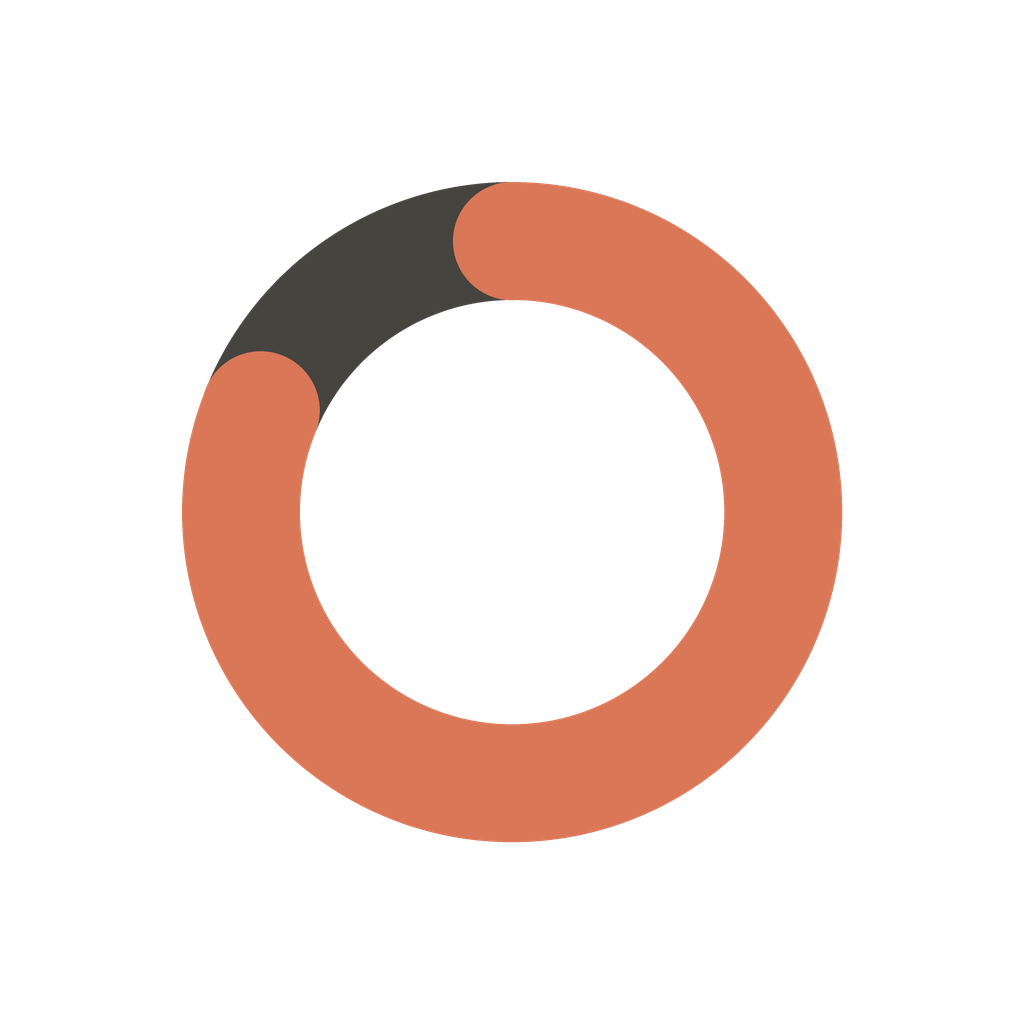
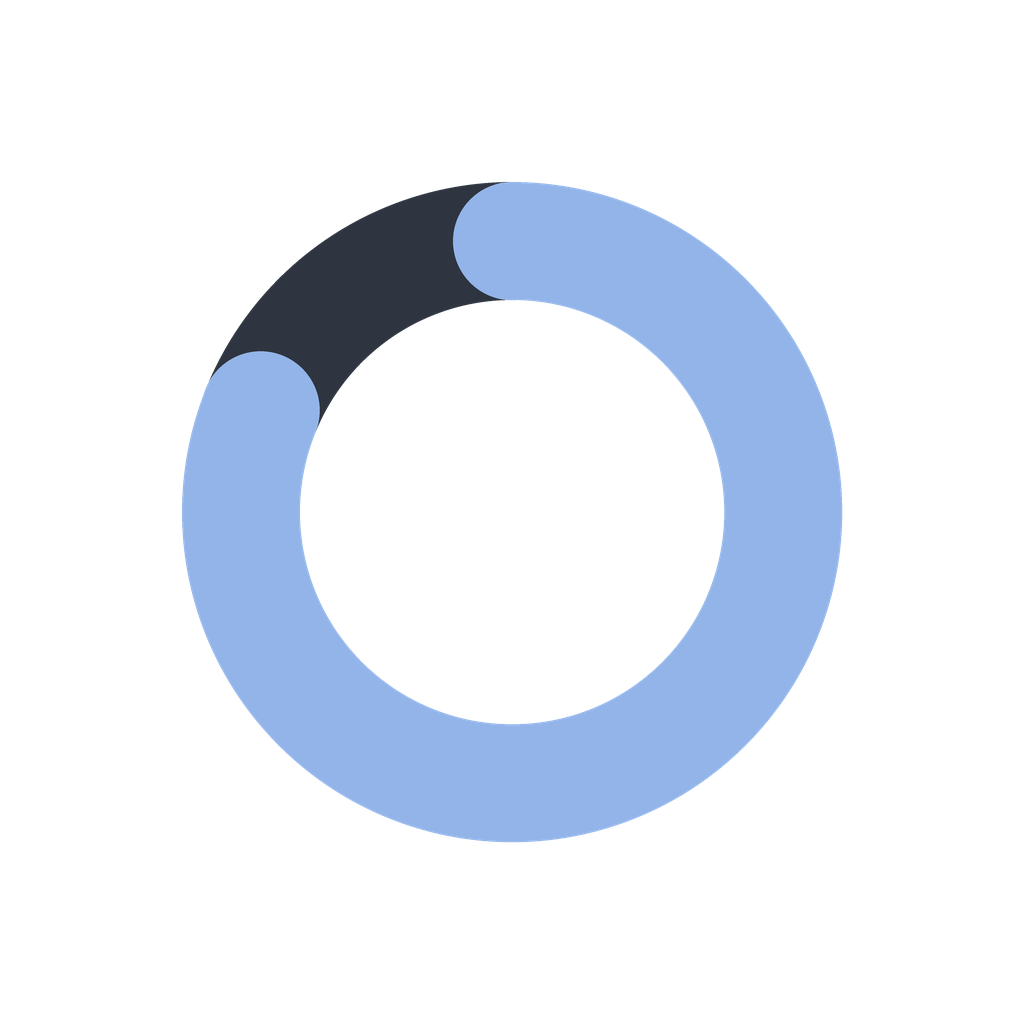
Build snapshot

Changed region(s): [[0.1562, 0.1562, 0.8438, 0.8438]]

diff --git a/src/ui/theme.ts b/src/ui/theme.ts
@@ -1,54 +1,60 @@
 import { DynamicColorIOS, Platform, useColorScheme, type ColorValue, type TextStyle } from 'react-native';
 
 /**
- * Claude's own palette: warm ivory paper and near-black ink by day, warm charcoal by night, and one
- * terracotta accent. The feelings scale keeps its own colours (src/domain/feelings.ts).
+ * Ink on paper. A journal is written with a pen: day paper and pen ink, one deep pen-blue for
+ * everything that can be acted on, a leaf green for a yes and a muted brick for a no. Blue is calm
+ * on purpose (the evening ritual, decades of use); warm colours are left to the day itself, whose
+ * feeling colour tints Today (src/domain/feelings.ts). Every text pairing is at least 4.5:1.
  */
 const light = {
-  bg: '#FAF9F5', // ivory paper
+  bg: '#F7F7F4', // day paper
   surface: '#FFFFFF',
-  fill: '#F0EEE6', // inputs, pills, segmented track
-  ink: '#141413',
-  ink2: '#5E5D59', // secondary text
-  ink3: '#75736B', // placeholders and quiet hints; 4.5:1 on paper
-  hairline: '#E8E6DC',
-  track: '#E8E6DC', // empty ring track, missed strip cells
-  boxBorder: '#C3C0B6', // unticked checkbox
-  accent: '#C96442', // terracotta: fills, rings, icons
-  // Terracotta has two jobs. The bright one fills; text in terracotta and white text on a terracotta
-  // button need a deeper shade to be read easily (4.5:1 or more, WCAG AA).
-  accentText: '#A64F34', // terracotta words: links, actions, the streak
-  accentStrong: '#AD5236', // fill behind white words: primary buttons
-  accentSoft: '#F5E9E2',
+  fill: '#ECEDEA', // inputs, pills, segmented track
+  ink: '#15181C',
+  ink2: '#55595F', // secondary text
+  ink3: '#6E7278', // placeholders and quiet hints
+  hairline: '#E2E3DF',
+  track: '#E2E3DF', // empty ring track, missed strip cells
+  boxBorder: '#B6B9BE', // unticked checkbox
+  accent: '#2B4C7E', // pen blue: actions, selection, rings
+  accentText: '#2B4C7E', // blue words (8:1 on paper)
+  accentStrong: '#2B4C7E', // fill behind white words
+  accentSoft: '#E6ECF5', // pen-blue wash: done, chosen
   onAccent: '#FFFFFF',
-  good: '#387D47', // a yes on a challenge list
-  goodStrong: '#387D47', // fill behind white words
-  goodSoft: '#E5F0E3',
-  scrim: 'rgba(20,20,19,0.05)',
-  edge: 'rgba(20,20,19,0.08)', // the thin edge around colour swatches
+  good: '#2F7A4A', // a yes
+  goodStrong: '#2F7A4A',
+  goodSoft: '#E3F0E7',
+  bad: '#A8432F', // a no, a rejection: muted brick, never alarm red
+  badStrong: '#A8432F',
+  flame: '#B3591F', // the streak's flame
+  scrim: 'rgba(21,24,28,0.05)',
+  edge: 'rgba(21,24,28,0.08)', // the thin edge around colour swatches
 };
 
-/** Night: warm charcoal, slightly raised cards, the brighter terracotta Claude uses in dark mode. */
+/** Night: blue-black paper, lighter ink, the pen-blue lifted so it reads on dark. */
 const dark: typeof light = {
-  bg: '#262624',
-  surface: '#30302E',
-  fill: '#3A3936',
-  ink: '#FAF9F5',
-  ink2: '#C2C0B6',
-  ink3: '#9C9A93',
-  hairline: '#3E3D3A',
-  track: '#45443F',
-  boxBorder: '#6B6A64',
-  accent: '#D97757',
-  accentText: '#E38B6E',
-  accentStrong: '#A9553A',
-  accentSoft: '#45322A',
-  onAccent: '#FFFFFF',
-  good: '#6DBE7C',
-  goodStrong: '#2F7A3F',
-  goodSoft: '#2F3D30',
-  scrim: 'rgba(250,249,245,0.07)',
-  edge: 'rgba(250,249,245,0.12)',
+  bg: '#12161C',
+  surface: '#1A2028',
+  fill: '#232A33',
+  ink: '#ECEEF1',
+  ink2: '#AEB4BC',
+  ink3: '#8C939C',
+  hairline: '#2A313A',
+  track: '#2E3540',
+  boxBorder: '#4C545E',
+  accent: '#93B4E8',
+  accentText: '#93B4E8',
+  accentStrong: '#93B4E8',
+  accentSoft: '#1E2A3B',
+  onAccent: '#0E1726', // dark words on the light night blue
+  good: '#7CC495',
+  goodStrong: '#7CC495',
+  goodSoft: '#1D3126',
+  bad: '#E8907F',
+  badStrong: '#E8907F',
+  flame: '#E9A15F',
+  scrim: 'rgba(236,238,241,0.07)',
+  edge: 'rgba(236,238,241,0.12)',
 };
 
 export type ColorName = keyof typeof light;

diff --git a/src/app/(tabs)/(index,month,lookback,plan)/index.tsx b/src/app/(tabs)/(index,month,lookback,plan)/index.tsx
@@ -1,10 +1,12 @@
 import { router } from 'expo-router';
-import { ActionSheetIOS, StyleSheet, View } from 'react-native';
+import { useEffect, useState } from 'react';
+import { ActionSheetIOS, AppState, StyleSheet, View } from 'react-native';
 import Animated from 'react-native-reanimated';
 
 import { formatTitle, monthOf } from '@/domain/dates';
 import { JournalGroup, NoSetupNote, TodayGroup, WeekGroup } from '@/features/day/day-layout';
-import { useMonth, usePrompts, useStreaks, useToday } from '@/features/hooks';
+import { DayWash } from '@/features/day/day-wash';
+import { useDay, useMonth, usePrompts, useStreaks, useToday } from '@/features/hooks';
 import { PromptCard } from '@/features/prompts/prompt-card';
 import { useJournal } from '@/state/journal';
 import { haptic } from '@/ui/haptics';
@@ -21,8 +23,8 @@ function Streak({ days }: { days: number }) {
   if (days < 2) return null;
   return (
     <Animated.View style={[styles.streak, bump]} accessible accessibilityLabel={`${days}-day streak`}>
-      <Icon name="flame.fill" size={14} color={colors.accent} />
-      <T variant="subhead" weight="700" tone="accent" style={styles.tabular} chrome>
+      <Icon name="flame.fill" size={14} color={colors.flame} />
+      <T variant="subhead" weight="700" style={[styles.tabular, styles.streakText]} chrome>
         {String(days)}
       </T>
     </Animated.View>
@@ -77,15 +79,40 @@ function DayMenu() {
  * Today: the date is the title. Below it: what is due (a prompt card, only when something is), the
  * journal entry, today's goals and hobbies, then the week.
  */
+/** From 5 pm until the new day starts (04:00 by default), the day is closing. */
+function isEvening(hour: number): boolean {
+  return hour >= 17 || hour < 4;
+}
+
+/** The current hour, checked again every few minutes and whenever the app comes back. */
+function useHour(): number {
+  const [hour, setHour] = useState(() => new Date().getHours());
+  useEffect(() => {
+    const tick = () => setHour(new Date().getHours());
+    const t = setInterval(tick, 5 * 60 * 1000);
+    const sub = AppState.addEventListener('change', (st) => st === 'active' && tick());
+    return () => {
+      clearInterval(t);
+      sub.remove();
+    };
+  }, []);
+  return hour;
+}
+
 export default function TodayScreen() {
   const today = useToday();
   const prompts = usePrompts();
   const { current } = useStreaks();
   const month = useMonth(monthOf(today));
   const setupSkipped = !month.setup && !prompts.some((p) => p.kind === 'setup');
+  const day = useDay(today);
+  const written = !!(day.title || day.writing || day.media.length || day.feeling != null);
+  const hour = useHour();
+  const evening = written || isEvening(hour);
 
   return (
     <Screen topInset>
+      <DayWash date={today} />
       <TopBar
         title={formatTitle(today)}
         trailing={
@@ -97,10 +124,15 @@ export default function TodayScreen() {
       />
       <PromptCard prompts={prompts} />
       {setupSkipped ? <NoSetupNote date={today} /> : null}
+      {/*
+        What comes first follows the day: in daytime the quick ticks lead and the day's entry waits
+        at the end; from late afternoon, or once the day is written, its entry leads.
+      */}
       <View style={styles.groups}>
-        <JournalGroup date={today} isToday titled={false} />
+        {evening ? <JournalGroup date={today} isToday titled={false} /> : null}
         <TodayGroup date={today} />
         <WeekGroup date={today} />
+        {evening ? null : <JournalGroup date={today} isToday titled={false} />}
       </View>
     </Screen>
   );
@@ -118,5 +150,6 @@ const styles = StyleSheet.create({
     justifyContent: 'center',
   },
   streak: { flexDirection: 'row', alignItems: 'center', gap: 4 },
+  streakText: { color: colors.flame },
   tabular: { fontVariant: ['tabular-nums'] },
 });

diff --git a/src/features/past/challenges.tsx b/src/features/past/challenges.tsx
@@ -107,13 +107,13 @@ function Totals({ kind, list }: { kind: ChallengeKind; list: ChallengeItem[] }) 
           <View style={styles.rule} />
           <Stat value={active} label="Active" color={colors.ink} />
           <View style={styles.rule} />
-          <Stat value={failed} label={copy.failed} color={colors.accent} />
+          <Stat value={failed} label={copy.failed} color={colors.bad} />
           <View style={styles.rule} />
           <Stat value={succeeded} label={copy.succeeded} color={colors.good} />
         </View>
         {total ? (
           <View style={styles.bar} accessibilityElementsHidden importantForAccessibility="no-hide-descendants">
-            {failed ? <View style={{ flex: failed, backgroundColor: colors.accent }} /> : null}
+            {failed ? <View style={{ flex: failed, backgroundColor: colors.bad }} /> : null}
             {succeeded ? <View style={{ flex: succeeded, backgroundColor: colors.good }} /> : null}
             {active ? <View style={{ flex: active, backgroundColor: colors.boxBorder }} /> : null}
             {rest ? <View style={{ flex: rest }} /> : null}
@@ -141,7 +141,7 @@ function StatusBox({ item, kind, onPress }: { item: ChallengeItem; kind: Challen
   const p = usePalette();
   const box =
     item.outcome === 'failed'
-      ? { borderColor: p.accent, backgroundColor: p.accent }
+      ? { borderColor: p.bad, backgroundColor: p.bad }
       : item.outcome === 'succeeded'
         ? { borderColor: p.good, backgroundColor: p.good }
         : item.started
@@ -262,7 +262,7 @@ export function ChallengeRow({
       left={{
         label: item.outcome === 'failed' ? 'Undo' : copy.failed,
         icon: item.outcome === 'failed' ? 'arrow.uturn.backward' : 'xmark',
-        color: colors.accentStrong,
+        color: colors.badStrong,
       }}
       onSwipe={(d) => conclude(d === 'right' ? 'succeeded' : 'failed')}
       onSwipeStart={() => (swiped.current = Date.now())}

diff --git a/src/features/day/day-wash.tsx b/src/features/day/day-wash.tsx
@@ -1,0 +1,37 @@
+import { LinearGradient } from 'expo-linear-gradient';
+import { StyleSheet, useColorScheme } from 'react-native';
+import Animated from 'react-native-reanimated';
+
+import { feeling } from '@/domain/feelings';
+import type { ISODate } from '@/domain/types';
+import { useDay } from '@/features/hooks';
+import { enterSoft, exitSoft } from '@/ui/motion';
+import { GUTTER } from '@/ui/theme';
+
+/** How strongly the day's colour shows at the very top: a tint, never a fill. */
+const STRENGTH = { light: '33', dark: '47' } as const;
+
+/**
+ * The day's own colour. Once the feeling is set, the top of Today takes it on: a soft wash from
+ * that colour into the paper, behind the date. The app reflects the day back; until then the page
+ * is plain paper. It scrolls with the page and sits behind everything.
+ */
+export function DayWash({ date }: { date: ISODate }) {
+  const f = feeling(useDay(date).feeling);
+  const scheme = useColorScheme() === 'dark' ? 'dark' : 'light';
+  if (!f) return null;
+  return (
+    <Animated.View key={f.score} entering={enterSoft} exiting={exitSoft} pointerEvents="none" style={styles.wash}>
+      <LinearGradient
+        colors={[`${f.color}${STRENGTH[scheme]}`, `${f.color}00`]}
+        locations={[0.35, 1]}
+        style={StyleSheet.absoluteFill}
+      />
+    </Animated.View>
+  );
+}
+
+const styles = StyleSheet.create({
+  // Reaches past the side gutters and up under the status bar, so the colour has no edges.
+  wash: { position: 'absolute', top: -240, left: -GUTTER, right: -GUTTER, height: 560 },
+});

diff --git a/src/export/viewer.ts b/src/export/viewer.ts
@@ -61,10 +61,10 @@ export function viewerHtml(input: {
 <html lang="en"><head><meta charset="utf-8"><meta name="viewport" content="width=device-width,initial-scale=1">
 <title>Journal</title>
 <style>
-:root{--paper:#FBF9F5;--ink:#1E1E22;--ink2:#66666E;--line:#E7E2D8;--accent:#5B5BD6}
+:root{--paper:#F7F7F4;--ink:#15181C;--ink2:#55595F;--line:#E2E3DF;--accent:#2B4C7E;--wash:#E6ECF5}
 *{box-sizing:border-box}body{margin:0;background:var(--paper);color:var(--ink);font:16px/1.5 -apple-system,system-ui,"Segoe UI",Roboto,sans-serif}
 main{max-width:760px;margin:0 auto;padding:32px 20px 80px}h1{font-size:34px;margin:0 0 4px}h2{font-size:22px;margin:40px 0 8px}
-.muted{color:var(--ink2)}.note{white-space:pre-wrap;border-left:3px solid var(--accent);padding:4px 0 4px 16px;margin:24px 0}
+.muted{color:var(--ink2)}.note{white-space:pre-wrap;background:var(--wash);border-radius:10px;padding:14px 16px;margin:24px 0}
 nav{display:flex;flex-wrap:wrap;gap:8px;margin:20px 0}nav button{border:1px solid var(--line);background:#fff;border-radius:999px;padding:6px 14px;font:inherit;cursor:pointer}
 nav button.on{background:var(--accent);color:#fff;border-color:var(--accent)}
 .grid{display:grid;grid-template-columns:22px repeat(12,1fr);gap:3px;margin:16px 0}.grid div{height:14px;border-radius:3px}

diff --git a/app.config.ts b/app.config.ts
@@ -1,6 +1,6 @@
 import type { ExpoConfig } from 'expo/config';
 
-const PAPER = '#FAF9F5';
+const PAPER = '#F7F7F4';
 const PHOTOS = 'Photos you choose are added to that day in your journal.';
 // One wording for every plugin that touches the microphone (the last plugin to run wins).
 const MIC = 'Record voice notes for a day in your journal.';
@@ -8,7 +8,7 @@ const MIC = 'Record voice notes for a day in your journal.';
 const config: ExpoConfig = {
   name: 'Life-Tracker',
   slug: 'life-tracker',
-  version: '1.15.1',
+  version: '1.16.0',
   scheme: 'lifetracker',
   orientation: 'portrait',
   icon: './assets/icon.png',
@@ -35,7 +35,7 @@ const config: ExpoConfig = {
         backgroundColor: PAPER,
         image: './assets/splash.png',
         imageWidth: 120,
-        dark: { backgroundColor: '#262624', image: './assets/splash-dark.png' },
+        dark: { backgroundColor: '#12161C', image: './assets/splash-dark.png' },
       },
     ],
     // The Journal folder appears in the Files app: On My iPhone > Life-Tracker.

diff --git a/src/ui/text.tsx b/src/ui/text.tsx
@@ -19,7 +19,7 @@ export function T({ variant = 'body', tone = 'ink', weight, center, chrome, styl
       maxFontSizeMultiplier={chrome ? 1.4 : undefined}
       style={[
         type[variant],
-        // Terracotta words use the deeper text shade; the bright one is for fills.
+        // Accent words use the text shade of the accent (it can differ from the fill).
         { color: tone === 'accent' ? colors.accentText : colors[tone] },
         weight ? { fontWeight: weight } : null,
         center ? { textAlign: 'center' } : null,
